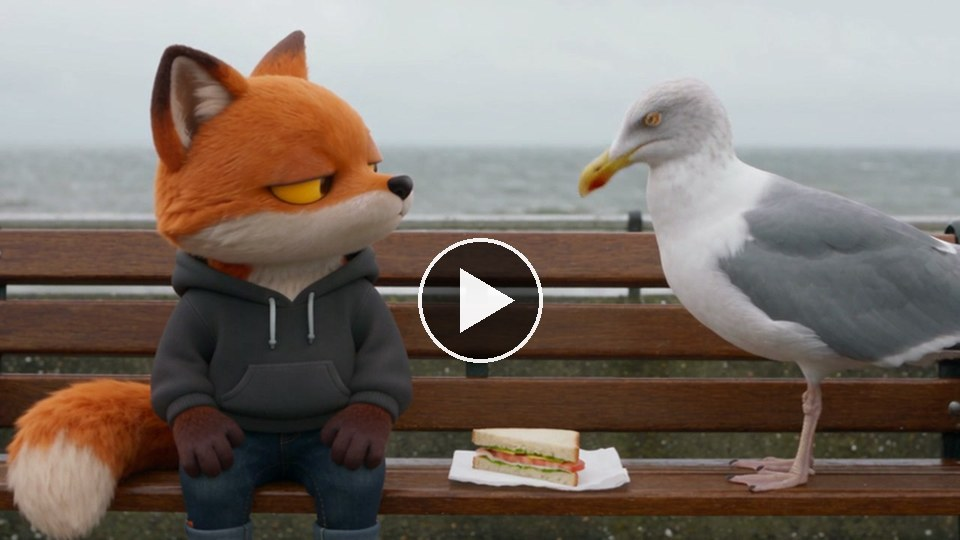
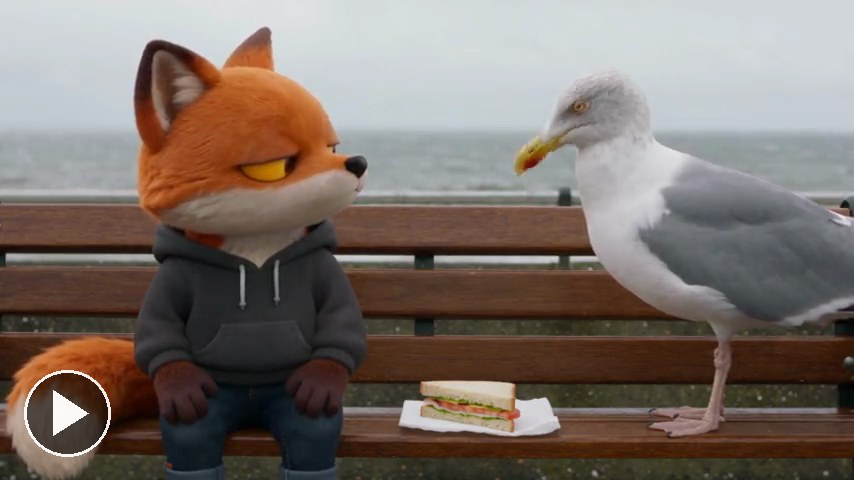
Every film skill opens with a still and a play button, linked to the film, so the page shows it is a video and not only a GIF (Paul, 28 Oct)
Claude-Session: https://claude.ai/code/session_01N99wVUhKLFyGD3CDvtf2Pm

Changed region(s): [[0.4262, 0.4375, 0.5785, 0.6875], [0.0304, 0.75, 0.1522, 0.9688]]

diff --git a/skills/real-world/README.md b/skills/real-world/README.md
@@ -1,5 +1,9 @@
 # The character in a real world
 
+<a href="../../assets/films/real-world.mp4"><img src="../../assets/stills/real-world-play.jpg" alt="Play the film, with sound" width="640"></a>
+
+[Play the film, with sound](../../assets/films/real-world.mp4).
+
 <img src="../../assets/gifs/real-world.gif" alt="In a real launderette at night the fox pulls on a hoodie that has shrunk to a crop top, his belly fur showing and his ears through the hood, and stares flatly at the camera" width="480">
 
 Your animated character in a real, photographic place, in one run of Seedance 2.5.

diff --git a/skills/story-in-one-run/README.md b/skills/story-in-one-run/README.md
@@ -1,5 +1,9 @@
 # A story in one run
 
+<a href="../../assets/films/story-in-one-run.mp4"><img src="../../assets/stills/story-in-one-run-play.jpg" alt="Play the film, with sound" width="640"></a>
+
+[Play the film, with sound](../../assets/films/story-in-one-run.mp4).
+
 <img src="../../assets/gifs/story-in-one-run.gif" alt="The fox falls from a red rock tower, opens a wingsuit and glides down the canyon low over a blue river, between the rock towers" width="480">
 
 A whole story with your character, up to 30 seconds, in one run of Seedance 2.5, so the face holds all the way.

diff --git a/skills/character-walk/README.md b/skills/character-walk/README.md
@@ -1,5 +1,9 @@
 # Character walk
 
+<a href="../../assets/films/character-walk.mp4"><img src="../../assets/stills/character-walk-play.jpg" alt="Play the film" width="640"></a>
+
+[Play the film](../../assets/films/character-walk.mp4).
+
 <img src="../../assets/gifs/character-walk.gif" alt="The fox walks toward the camera across a sunny beach, hands in his hoodie pockets" width="560">
 
 <img src="../../assets/gifs/character-walk-rear.gif" alt="The fox, seen from behind in a red shirt, walks down a stadium tunnel toward the bright pitch" width="560">

diff --git a/skills/phone-witness/README.md b/skills/phone-witness/README.md
@@ -1,5 +1,9 @@
 # Phone witness
 
+<a href="../../assets/films/phone-witness.mp4"><img src="../../assets/stills/phone-witness-play.jpg" alt="Play the film" width="300"></a>
+
+[Play the film](../../assets/films/phone-witness.mp4).
+
 <img src="../../assets/gifs/phone-witness.gif" alt="Vertical phone footage of the fox walking through Times Square, seen through a phone camera screen with REC timer and focus box" width="300">
 
 The character caught on a stranger's phone, seen through the phone's own camera screen, with one bored glance at the

diff --git a/skills/festival-cut/README.md b/skills/festival-cut/README.md
@@ -1,5 +1,9 @@
 # Festival cut (Cannes)
 
+<a href="../../assets/films/festival-cut.mp4"><img src="../../assets/stills/festival-cut-play.jpg" alt="Play the film" width="640"></a>
+
+[Play the film](../../assets/films/festival-cut.mp4).
+
 <img src="../../assets/gifs/festival-cut.gif" alt="The fox walks toward the camera through a Times Square crossing, then letterbox, laurels and the title Direct Traffic fade in" width="560">
 
 The character filmed as documentary in a real place, then dressed as a festival trailer, so they walk into the

diff --git a/skills/camcorder/README.md b/skills/camcorder/README.md
@@ -1,5 +1,9 @@
 # Camcorder (Exit Through the Gift Shop)
 
+<a href="../../assets/films/camcorder.mp4"><img src="../../assets/stills/camcorder-play.jpg" alt="Play the film" width="640"></a>
+
+[Play the film](../../assets/films/camcorder.mp4).
+
 <img src="../../assets/gifs/camcorder.gif" alt="Grainy night camcorder footage of the fox spray-painting an orange fox on a brick wall, with an amber date stamp" width="560">
 
 The character filmed at night on an old camcorder, spray-painting their own logo on a wall, with one bored glance

diff --git a/skills/trunk-shot/README.md b/skills/trunk-shot/README.md
@@ -1,5 +1,9 @@
 # Trunk shot (Tarantino)
 
+<a href="../../assets/films/trunk-shot.mp4"><img src="../../assets/stills/trunk-shot-play.jpg" alt="Play the film" width="640"></a>
+
+[Play the film](../../assets/films/trunk-shot.mp4).
+
 <img src="../../assets/gifs/trunk-shot.gif" alt="From inside a car boot, the lid opens on a desert road and Paul and the fox, in black suits, look down into the boot" width="560">
 
 The camera is inside a car boot. It opens from black, and the character is standing there looking down, unimpressed.

diff --git a/skills/green-studio/README.md b/skills/green-studio/README.md
@@ -1,5 +1,9 @@
 # Green studio
 
+<a href="../../assets/films/green-studio.mp4"><img src="../../assets/stills/green-studio-play.jpg" alt="Play the film" width="480"></a>
+
+[Play the film](../../assets/films/green-studio.mp4).
+
 <img src="../../assets/gifs/green-studio.gif" alt="The fox stands on the first bar of a chart, rides it up, jumps onto the taller bar beside it and hops back down" width="420">
 
 The character acts on a flat green studio, gets cut out on every frame, and is laid on a chart drawn in code. The

diff --git a/skills/freeze-frame/README.md b/skills/freeze-frame/README.md
@@ -1,5 +1,9 @@
 # Freeze frame (Rounders)
 
+<a href="../../assets/films/freeze-frame.mp4"><img src="../../assets/stills/freeze-frame-play.jpg" alt="Play the film" width="640"></a>
+
+[Play the film](../../assets/films/freeze-frame.mp4).
+
 <img src="../../assets/gifs/freeze-frame.gif" alt="The fox at a poker table glances up, the picture flashes and freezes with the title Think in bets" width="560">
 
 The character is mid-action, the picture flashes white and freezes with a title for two seconds, then the film

diff --git a/skills/hyperspeed/README.md b/skills/hyperspeed/README.md
@@ -1,5 +1,9 @@
 # Hyperspeed
 
+<a href="../../assets/films/hyperspeed.mp4"><img src="../../assets/stills/hyperspeed-play.jpg" alt="Play the film" width="640"></a>
+
+[Play the film](../../assets/films/hyperspeed.mp4).
+
 <img src="../../assets/gifs/hyperspeed.gif" alt="The camera flies over a Mediterranean coast and lands on the fox, sitting still on a rooftop wall with a book" width="560">
 
 The camera flies fast through a whole place and lands on the character, who hasn't moved. One clip, about seven

diff --git a/skills/one-take/README.md b/skills/one-take/README.md
@@ -1,5 +1,9 @@
 # One-take (Goodfellas)
 
+<a href="../../assets/films/one-take.mp4"><img src="../../assets/stills/one-take-play.jpg" alt="Play the film" width="640"></a>
+
+[Play the film](../../assets/films/one-take.mp4).
+
 <img src="../../assets/gifs/one-take.gif" alt="The fox walks toward the camera down a service corridor, then a hard cut to a kitchen as he keeps walking" width="600">
 
 The character walks at a camera that backs away in front of them, and the place changes behind them with hard

diff --git a/skills/waterslide/README.md b/skills/waterslide/README.md
@@ -1,5 +1,9 @@
 # Waterslide
 
+<a href="../../assets/films/waterslide.mp4"><img src="../../assets/stills/waterslide-play.jpg" alt="Play the film" width="640"></a>
+
+[Play the film](../../assets/films/waterslide.mp4).
+
 <img src="../../assets/gifs/waterslide.gif" alt="The fox rides a green waterslide in a yellow ring through a back garden, ending soaked and unimpressed in close-up" width="560">
 
 An action montage where the character does something fast and fun and never cracks a smile.
